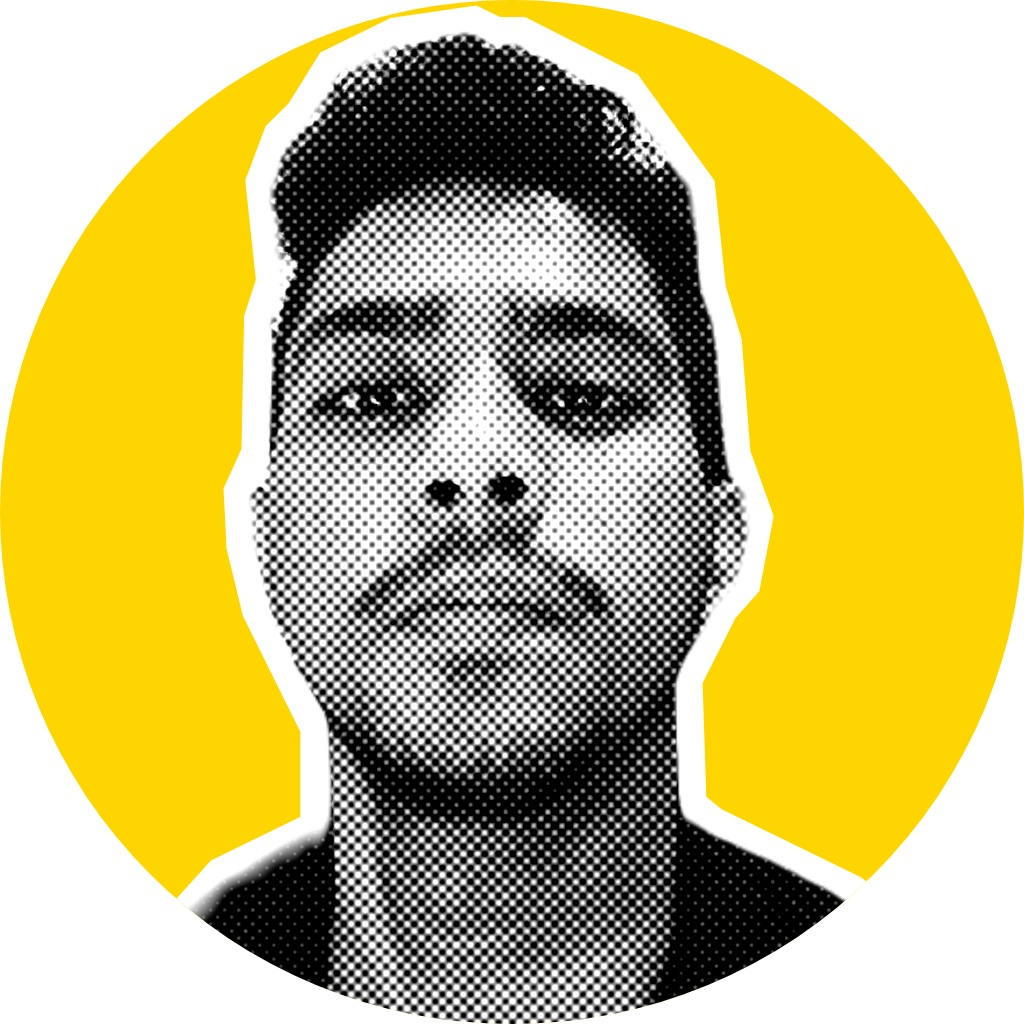
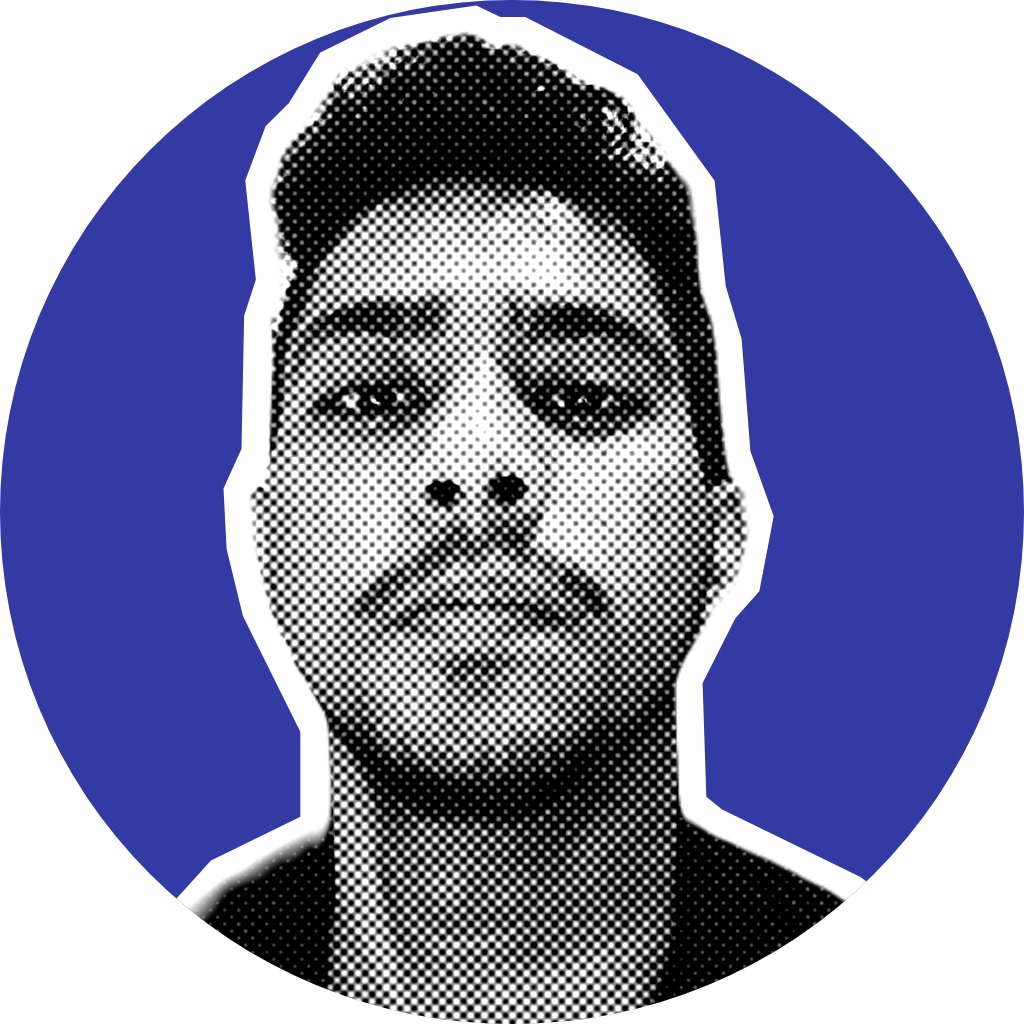
change image and color scheme

diff --git a/styles/utilities/_helper.css b/styles/utilities/_helper.css
@@ -1,11 +1,11 @@
 #nprogress .bar {
-  background: #3182ce !important;
+  background: #343aa4 !important;
   height: 5px;
 }
 
 #nprogress .spinner-icon {
-  border-top-color: #3182ce !important;
-  border-left-color: #3182ce !important;
+  border-top-color: #343aa4 !important;
+  border-left-color: #343aa4 !important;
 }
 
 .nav-link {
@@ -22,7 +22,7 @@
 }
 
 .nav-link-active {
-  color: #3182ce !important;
+  color: #343aa4 !important;
 }
 
 .font-me {

diff --git a/theme/index.js b/theme/index.js
@@ -7,7 +7,9 @@ const theme = extendTheme({
     text: `'Overpass', sans-serif`,
   },
   colors: {
-    primary: {},
+    blue: {
+      500: "#343aa4",
+    },
   },
 });
 

diff --git a/styles/utilities/_typography.css b/styles/utilities/_typography.css
@@ -15,6 +15,6 @@
   height: 0.25rem;
   left: 2rem;
   right: 2rem;
-  background-color: #3182CE;
+  background-color: #343aa4;
   border-radius: 0.25rem;
 }
